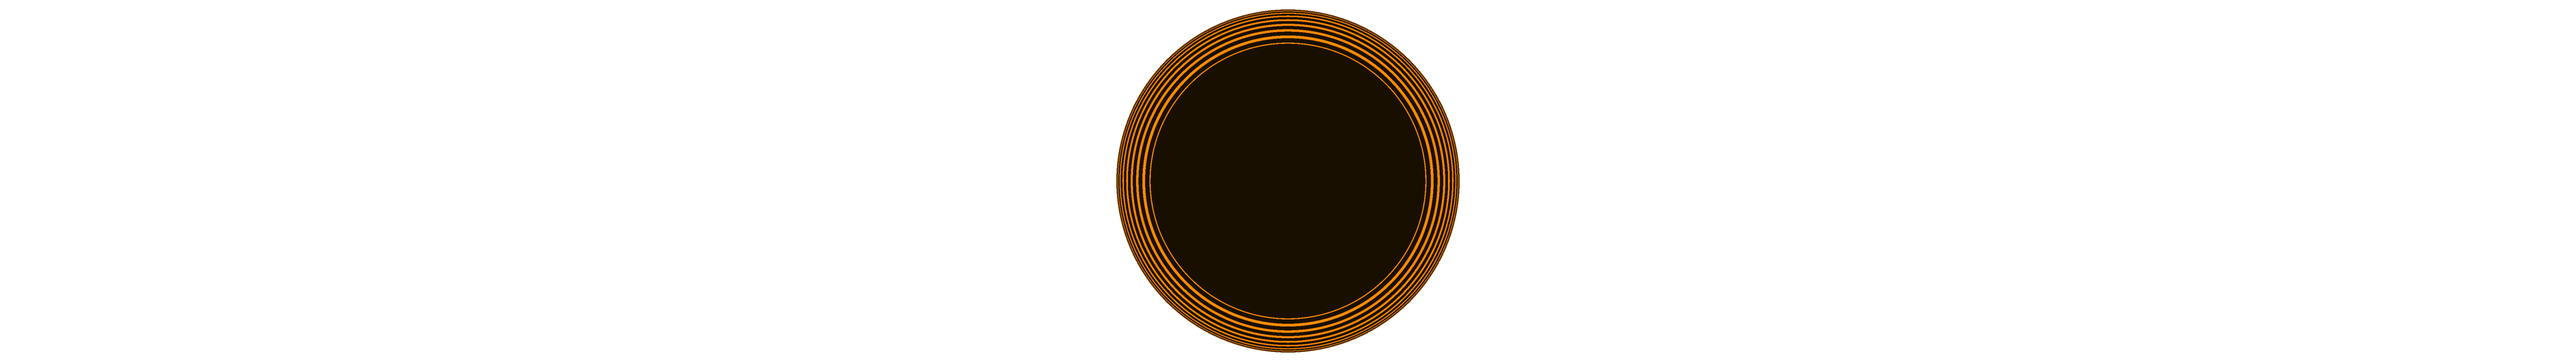
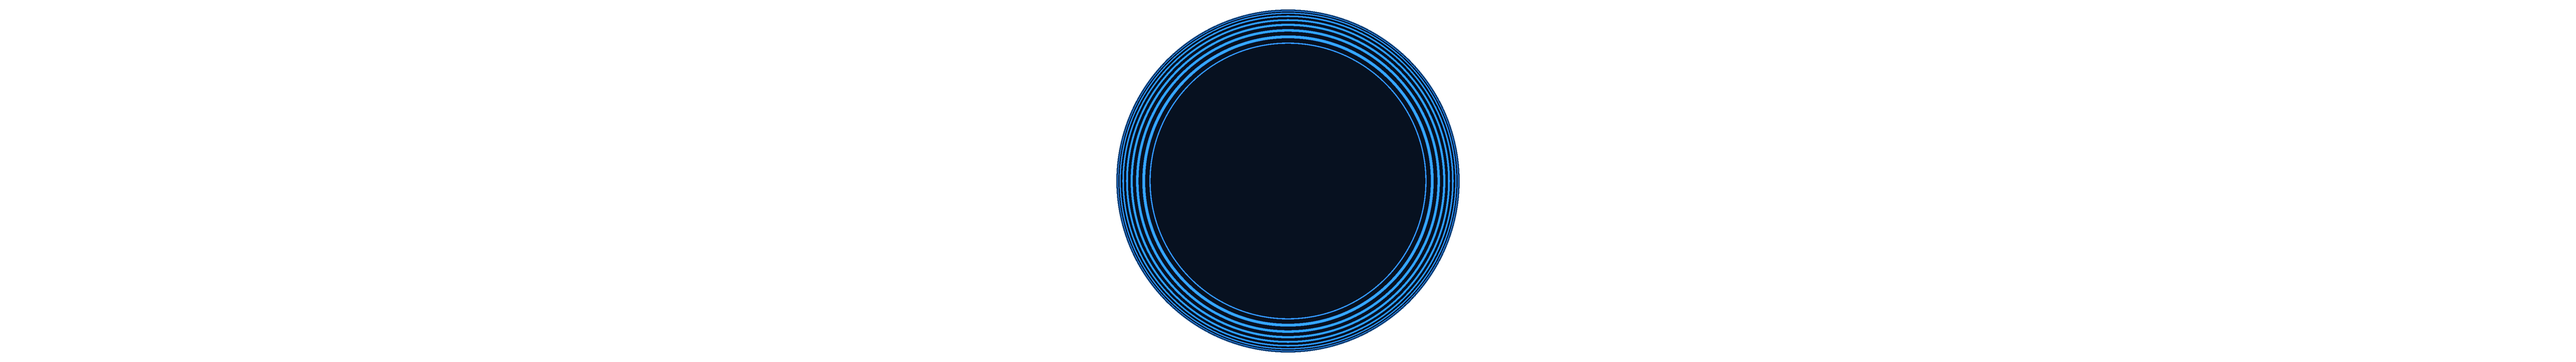
BBBB

Changed region(s): [[0.4062, 0.0306, 0.5938, 0.9778]]

diff --git a/Assets/Scripts/MoveBG.cs b/Assets/Scripts/MoveBG.cs
@@ -3,8 +3,19 @@ using UnityEngine;
 public class MoveBG : MonoBehaviour
 {
     public Transform cm;
+    public float yAmp = 0.0f;
+
+    private float startX;
+    private float startY;
+
+    private void Start()
+    {
+        startX = transform.position.x;
+        startY = transform.position.y;
+    }
+
     private void Update()
     {
-        transform.position = new Vector3(cm.position.x * transform.position.z, transform.position.y, transform.position.z);
+        transform.position = new Vector3(cm.position.x * transform.position.z + startX, startY - (cm.position.y - 4) * transform.position.z * yAmp, transform.position.z);
     }
 }
